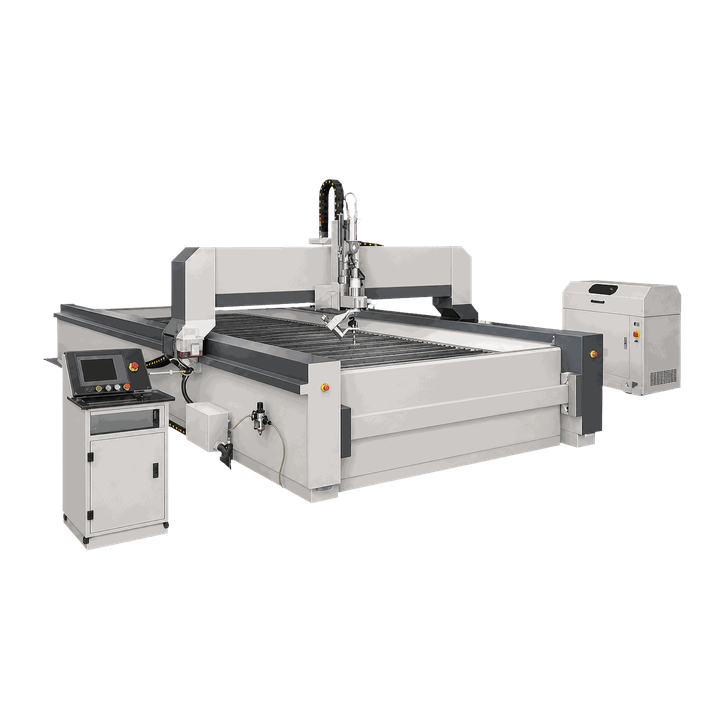
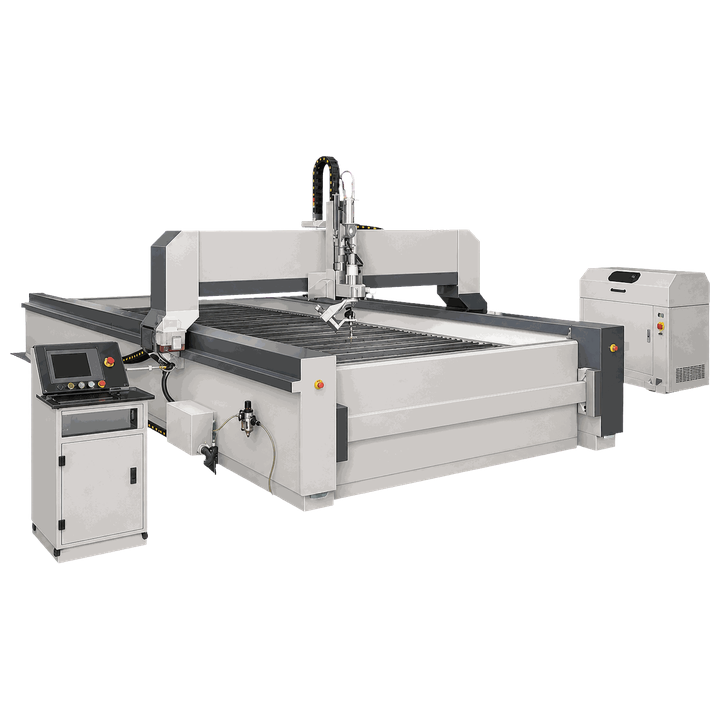
Фикс визуальных багов: убран белый фон у иконок «Токарные станки»/«Гидроабразивные станки», выровнена высота карточек «Станки в наличии» независимо от наличия цены

Changed region(s): [[0.0, 0.2139, 1.0, 0.7944]]

diff --git a/index.html b/index.html
@@ -1897,7 +1897,7 @@ body.hide-hdr-cta .hdr .hdr-cta{display:none}
 @media(max-width:760px){.split-head{grid-template-columns:1fr}.split-head-desc{margin-top:0}}
 /* Ручная перемотка ленты поверх непрерывной CSS-анимации: JS двигает вложенный .ribbon-nudge, сама лента продолжает бежать независимо */
 .ribbon-nudge{transition:transform .4s cubic-bezier(.2,.7,.2,1)}
-.stk-home-item{position:relative;flex:0 0 auto;width:250px;scroll-snap-align:start;display:flex;flex-direction:column;background:#fff;border:1px solid var(--line);border-radius:14px;overflow:hidden;box-shadow:0 10px 26px rgba(26,26,26,.05);transition:transform .2s ease,box-shadow .2s ease,border-color .2s ease}
+.stk-home-item{position:relative;flex:0 0 auto;align-self:stretch;width:250px;scroll-snap-align:start;display:flex;flex-direction:column;background:#fff;border:1px solid var(--line);border-radius:14px;overflow:hidden;box-shadow:0 10px 26px rgba(26,26,26,.05);transition:transform .2s ease,box-shadow .2s ease,border-color .2s ease}
 .stk-home-item:hover{transform:translateY(-3px);box-shadow:0 20px 42px rgba(26,26,26,.1);border-color:rgba(107,45,139,.25)}
 .stk-home-link{position:absolute;inset:0;z-index:2}
 .stk-home-media{position:relative;height:150px;display:flex;align-items:center;justify-content:center;padding:16px;background:linear-gradient(145deg,#fafafa,#e8eaeb)}
@@ -1912,7 +1912,7 @@ body.hide-hdr-cta .hdr .hdr-cta{display:none}
 .stk-home-price{display:flex;flex-wrap:wrap;align-items:baseline;gap:2px 8px;padding-top:10px;border-top:1px solid var(--line);margin-top:auto}
 .stk-home-price b{font-family:'Magistral',sans-serif;font-size:15px;font-weight:700;letter-spacing:-.02em;color:var(--gold);background:rgba(201,162,39,.12);padding:2px 8px;border-radius:4px}
 .stk-home-price span{display:block;width:100%;font-family:'Golos Text',sans-serif;font-size:10px;font-weight:400;letter-spacing:.2px;color:var(--mid);margin-top:2px}
-.stk-home-cta{position:relative;z-index:3;display:block;width:100%;margin-top:12px;padding:11px;text-align:center;font-family:'Golos Text',sans-serif;font-size:10.5px;font-weight:700;letter-spacing:.5px;text-transform:uppercase;color:#fff;background:var(--ce);border:0;border-radius:8px;cursor:pointer;transition:background .18s ease}
+.stk-home-cta{position:relative;z-index:3;display:block;width:100%;margin-top:auto;padding:11px;text-align:center;font-family:'Golos Text',sans-serif;font-size:10.5px;font-weight:700;letter-spacing:.5px;text-transform:uppercase;color:#fff;background:var(--ce);border:0;border-radius:8px;cursor:pointer;transition:background .18s ease}
 .stk-home-cta:hover{background:var(--ceHover)}
 @media(max-width:640px){.split-head-desc{max-width:none}.stk-home-item{width:216px}}
 
@@ -1951,7 +1951,7 @@ body.hide-hdr-cta .hdr .hdr-cta{display:none}
 .eq-split-title{width:100%;margin:14px 0 16px;text-align:left;font-size:clamp(26px,3.4vw,46px);font-weight:600;letter-spacing:-.012em;overflow-wrap:break-word;word-break:normal;hyphens:none;color:var(--bm)}
 .eq-split-desc{font-size:14.5px;line-height:1.65;color:var(--mid);margin-bottom:28px;max-width:440px}
 .eq-carousel-wrap{position:relative;display:flex;align-items:center;gap:14px;min-width:0}
-.eq-carousel{display:flex;gap:16px;overflow-x:auto;scroll-snap-type:x mandatory;scrollbar-width:none;-ms-overflow-style:none;padding:4px 2px;min-width:0}
+.eq-carousel{display:flex;align-items:stretch;gap:16px;overflow-x:auto;scroll-snap-type:x mandatory;scrollbar-width:none;-ms-overflow-style:none;padding:4px 2px;min-width:0}
 .eq-carousel::-webkit-scrollbar{display:none}
 .eq-car-item{flex:0 0 auto;width:200px;scroll-snap-align:start;display:flex;flex-direction:column;text-decoration:none;background:#fff;border:1px solid var(--line);padding:18px 18px 20px;transition:border-color .2s ease,box-shadow .2s ease,transform .2s ease}
 .eq-car-title{font-family:'Golos Text',sans-serif;font-size:13.5px;font-weight:700;line-height:1.3;color:var(--bm);margin-bottom:16px;min-height:52px}
